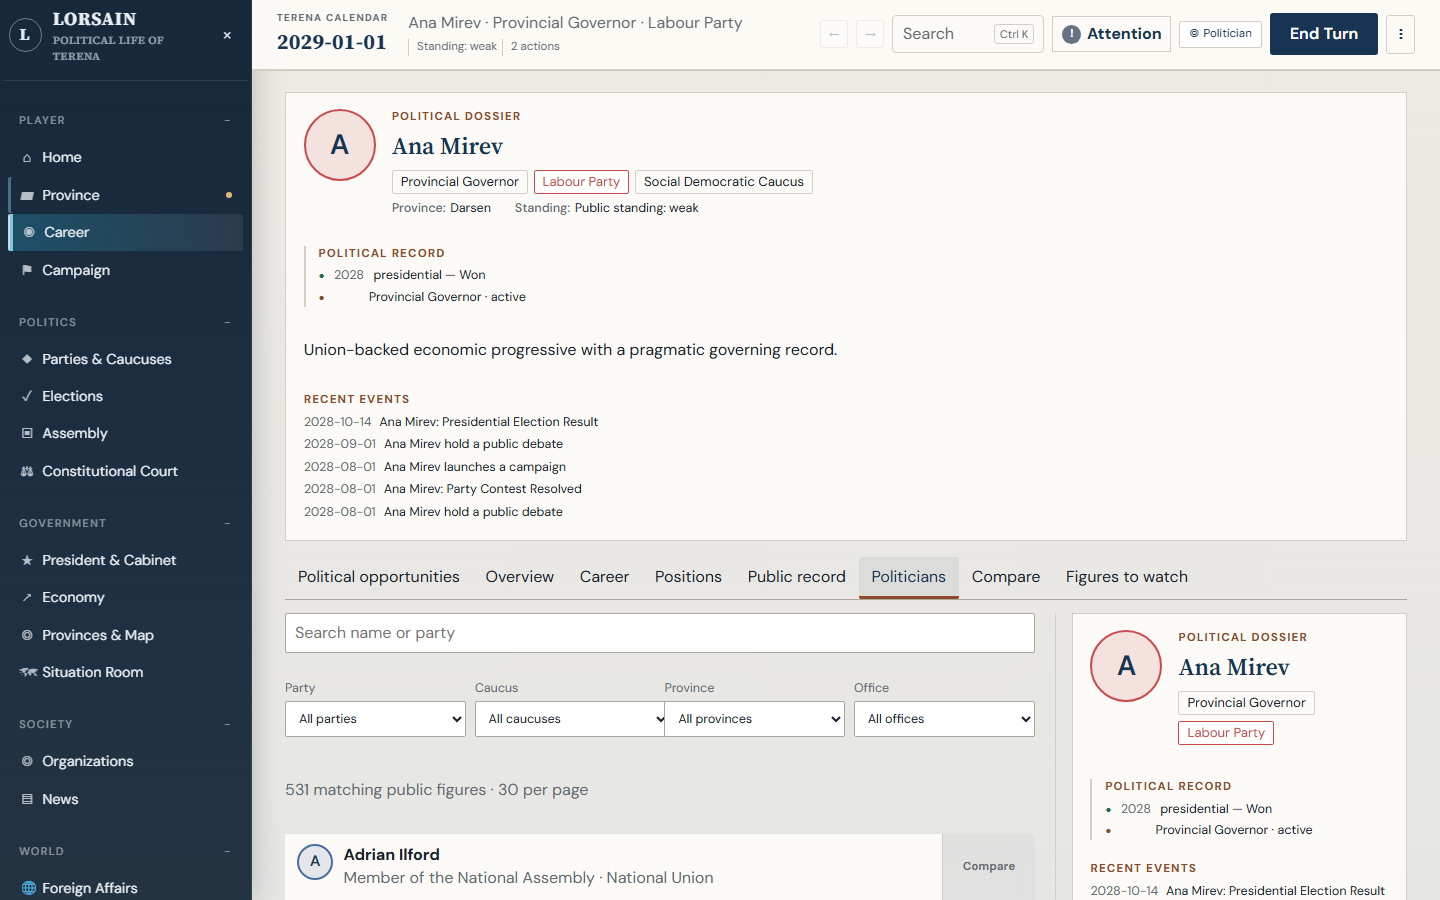
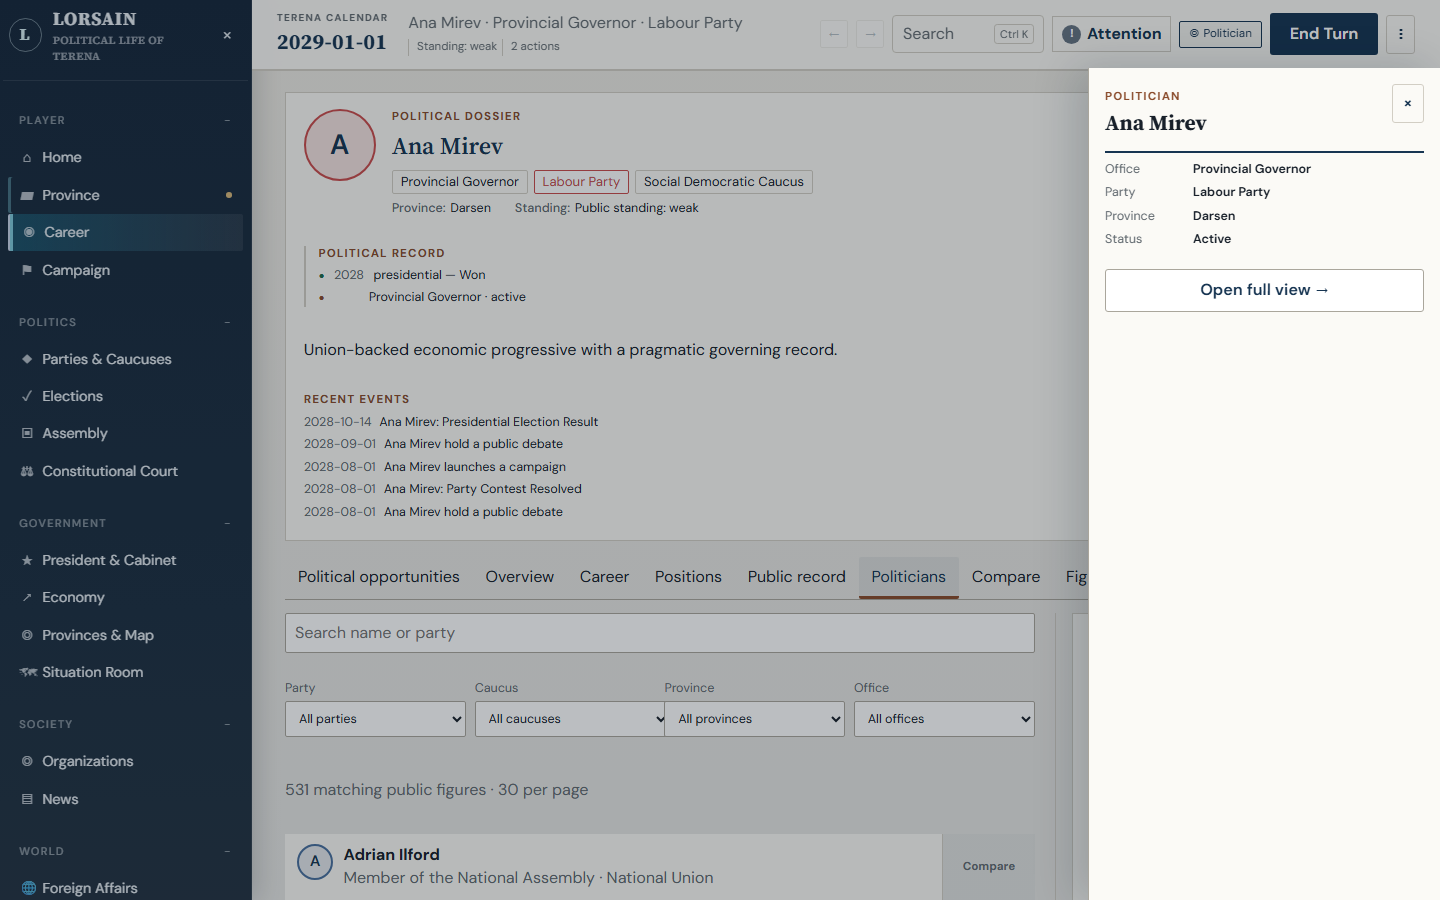
Wire Why panels, EntityLinks, inspector QA, and Situation Room politics.
Make political map layers and province selection truthful; expand navigable
entity links; open inspector via qaOpenInspector for capture scripts.

diff --git a/apps/game/src/assemblyScreen.tsx b/apps/game/src/assemblyScreen.tsx
@@ -29,6 +29,8 @@ import {
 } from "@lorsain/sim";
 import { isMp, isSpeaker } from "./format.js";
 import { ConstitutionBrowser } from "./constitutionBrowser.js";
+import { EntityLink } from "./ui/entityLink.js";
+import { WhyPanel } from "./ui/whyPanel.js";
 import {
   billStatusLabel,
   committeeDisplayName,
@@ -290,6 +292,7 @@ export function AssemblyPage(props: {
   setSelectedBill: (id: string | null) => void;
   onDone: () => void;
   report: (r: CommandResult) => boolean;
+  onEntityNavigate?: (kind: import("./ui/entityLink.js").EntityLinkKind, id: string) => void;
 }) {
   const [chamberTab, setChamberTab] = useState<ChamberTab>("business");
   const [billTab, setBillTab] = useState<BillDetailTab>("overview");
@@ -1216,12 +1219,69 @@ export function AssemblyPage(props: {
                                   : "Your ideological fit with this bill is mixed across provisions.";
                               return (
                                 <>
-                                  <p className="muted bill-why-summary">{playerWhy}</p>
+                                  <WhyPanel
+                                    title="Why this bill for you?"
+                                    summary={playerWhy}
+                                    factors={[
+                                      {
+                                        label:
+                                          playerFit >= 0
+                                            ? "Policy alignment with recorded positions"
+                                            : "Policy divergence from recorded positions",
+                                        direction:
+                                          Math.abs(playerFit) < 0.06
+                                            ? "neutral"
+                                            : playerFit > 0
+                                              ? "support"
+                                              : "oppose",
+                                        weight: playerFit,
+                                      },
+                                      ...(partyStance(
+                                        props.snap,
+                                        props.snap.politicians[props.snap.playerPoliticianId]
+                                          ?.partyId ?? null,
+                                        bill.id,
+                                      ) === "support"
+                                        ? [
+                                            {
+                                              label: "Party leadership supports bill",
+                                              direction: "support" as const,
+                                              weight: 0.25,
+                                            },
+                                          ]
+                                        : partyStance(
+                                              props.snap,
+                                              props.snap.politicians[props.snap.playerPoliticianId]
+                                                ?.partyId ?? null,
+                                              bill.id,
+                                            ) === "oppose"
+                                          ? [
+                                              {
+                                                label: "Party leadership opposes bill",
+                                                direction: "oppose" as const,
+                                                weight: -0.25,
+                                              },
+                                            ]
+                                          : []),
+                                    ]}
+                                  />
                                   <DataTable dense headers={["Member", "Lean", "Why"]}>
                                     {sample.map((row) => (
                                       <tr key={row.memberId}>
                                         <td>
-                                          {politicianDisplayName(props.catalog, row.memberId)}
+                                          {props.onEntityNavigate ? (
+                                            <EntityLink
+                                              kind="Politician"
+                                              id={row.memberId}
+                                              label={politicianDisplayName(
+                                                props.catalog,
+                                                row.memberId,
+                                              )}
+                                              onNavigate={props.onEntityNavigate}
+                                            />
+                                          ) : (
+                                            politicianDisplayName(props.catalog, row.memberId)
+                                          )}
                                         </td>
                                         <td>
                                           <StatusBadge
@@ -1236,8 +1296,18 @@ export function AssemblyPage(props: {
                                             {mpLeanLabel(row.lean)}
                                           </StatusBadge>
                                         </td>
-                                        <td className="muted">
-                                          {row.factors.slice(0, 2).join(" · ")}
+                                        <td>
+                                          <WhyPanel
+                                            title="Why?"
+                                            factors={row.factors.map((label) => ({
+                                              label,
+                                              direction: /oppose|resist|against/i.test(label)
+                                                ? ("oppose" as const)
+                                                : /support|align|prefer/i.test(label)
+                                                  ? ("support" as const)
+                                                  : ("neutral" as const),
+                                            }))}
+                                          />
                                         </td>
                                       </tr>
                                     ))}

diff --git a/apps/game/src/historyScreen.tsx b/apps/game/src/historyScreen.tsx
@@ -18,6 +18,7 @@ import {
   politicianDisplayName,
   type PresentationCatalog,
 } from "./presentation.js";
+import { EntityLink } from "./ui/entityLink.js";
 import {
   housingPressureLabel,
   nationalPublicEconomy,
@@ -86,6 +87,7 @@ export function HistoryPage(props: {
   snap: SimState;
   bundle: ContentBundle;
   catalog: PresentationCatalog;
+  onEntityNavigate?: (kind: import("./ui/entityLink.js").EntityLinkKind, id: string) => void;
 }) {
   const [section, setSection] = useState<HistorySection>("years");
   const [query, setQuery] = useState("");
@@ -1015,15 +1017,35 @@ export function HistoryPage(props: {
         <ul className="wiki-plain-list">
           {members.slice(0, 60).map((person) => (
             <li key={person.id}>
-              <button
-                type="button"
-                onClick={() =>
-                  openArticle(articles.find((row) => row.id === `person:${person.id}`)!)
-                }
-              >
-                {politicianDisplayName(props.catalog, person.id)}
-              </button>
-              <span>{partyDisplayName(props.world, person.partyId, props.snap)}</span>
+              {props.onEntityNavigate ? (
+                <EntityLink
+                  kind="Politician"
+                  id={person.id}
+                  label={politicianDisplayName(props.catalog, person.id)}
+                  onNavigate={props.onEntityNavigate}
+                />
+              ) : (
+                <button
+                  type="button"
+                  onClick={() =>
+                    openArticle(articles.find((row) => row.id === `person:${person.id}`)!)
+                  }
+                >
+                  {politicianDisplayName(props.catalog, person.id)}
+                </button>
+              )}
+              <span>
+                {props.onEntityNavigate && person.partyId ? (
+                  <EntityLink
+                    kind="Party"
+                    id={person.partyId}
+                    label={partyDisplayName(props.world, person.partyId, props.snap)}
+                    onNavigate={props.onEntityNavigate}
+                  />
+                ) : (
+                  partyDisplayName(props.world, person.partyId, props.snap)
+                )}
+              </span>
             </li>
           ))}
         </ul>

diff --git a/apps/game/src/map/fills.ts b/apps/game/src/map/fills.ts
@@ -113,6 +113,19 @@ export function mapFillFor(
     if (plurality === "tie") return CONSTITUENCY_TIE_FILL;
     return partyColor(world, plurality);
   }
+  if (mode === "political" && kind === "province") {
+    // Province political layer: Governor's Party (public office occupancy).
+    const governorTerm = Object.values(snap.officeTerms).find((term) => {
+      if (term.status !== "active" && term.status !== "suspended") return false;
+      const office = world.offices[term.officeId];
+      return office?.kind === "governor" && office.provinceId === feature.id;
+    });
+    if (governorTerm) {
+      const partyId = snap.politicians[governorTerm.holderId]?.partyId ?? null;
+      return partyColor(world, partyId);
+    }
+    return "#dedbd3";
+  }
   if (mode === "election") {
     const provincial = electionId ? snap.provincialRuntime.elections[electionId] : null;
     if (kind === "province" && provincial) {

diff --git a/apps/game/src/ui/shell.tsx b/apps/game/src/ui/shell.tsx
@@ -125,6 +125,17 @@ export function GameShell(props: {
     window.addEventListener("keydown", onKeyDown);
     return () => window.removeEventListener("keydown", onKeyDown);
   }, []);
+  useEffect(() => {
+    if (!props.inspectorFocus) return;
+    try {
+      if (window.sessionStorage.getItem("lorsain-qa-open-inspector") === "1") {
+        window.sessionStorage.removeItem("lorsain-qa-open-inspector");
+        setInspectorOpen(true);
+      }
+    } catch {
+      /* ignore */
+    }
+  }, [props.inspectorFocus]);
   const normalizedQuery = searchQuery.trim().toLowerCase();
   const searchResults = props.searchEntries
     .filter(

diff --git a/apps/game/src/App.tsx b/apps/game/src/App.tsx
@@ -273,6 +273,9 @@ export default function App() {
           setGlobalFocus({ kind: focusKind, id: focusId });
           if (focusKind === "Bill") setSelectedBill(focusId);
         }
+        if (params.get("qaOpenInspector") === "1") {
+          window.sessionStorage.setItem("lorsain-qa-open-inspector", "1");
+        }
         refresh(restored);
       })
       .catch((reason: unknown) =>
